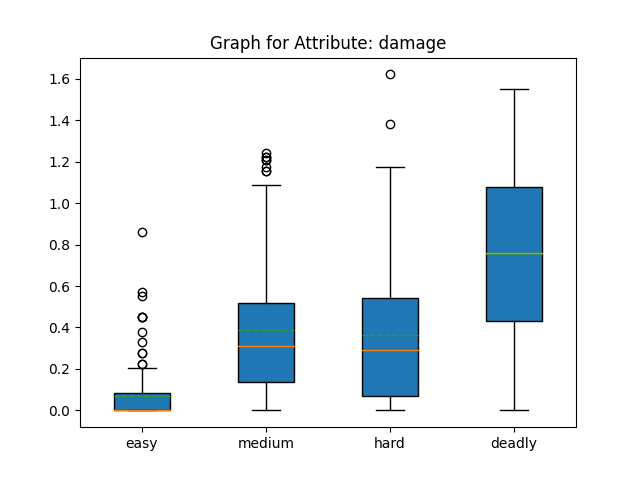
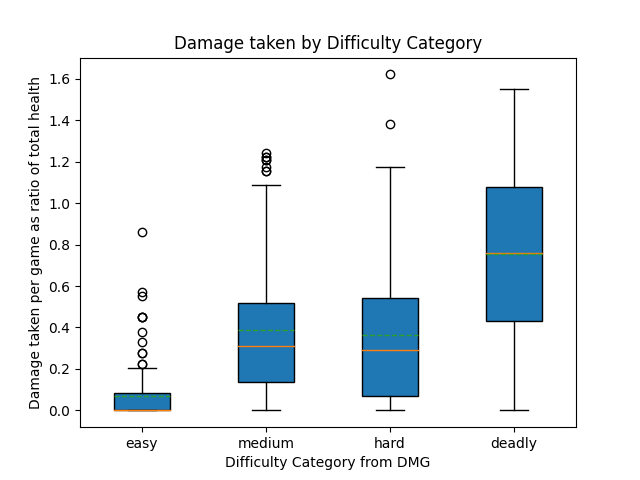
updated graphs

Changed region(s): [[0.25, 0.0625, 0.75, 0.125], [0.0312, 0.1562, 0.0625, 0.8438], [0.3438, 0.9375, 0.6875, 1.0]]

diff --git a/AnalyizeExperiements.py b/AnalyizeExperiements.py
@@ -55,7 +55,7 @@ def condense_results(game_data):
     
     return cond_vals 
 
-def creat_box_plt(data_dict, attribute):
+def creat_box_plt(data_dict, attribute, y_label = "y axis", title = "Graph"):
  
     easy = data_dict["Easy"][attribute]
     medium = data_dict["Medium"][attribute]
@@ -63,10 +63,12 @@ def creat_box_plt(data_dict, attribute):
     deadly= data_dict["Deadly"][attribute]
     
     box_plot_data=[easy, medium, hard, deadly]
-    plt.title("Graph for Attribute: {}".format(attribute))
+    plt.title(title)
+    plt.xlabel("Difficulty Category from DMG")
+    plt.ylabel(y_label)
     plt.boxplot(box_plot_data, patch_artist=True, meanline=True, showmeans=True, labels=["easy", "medium", "hard", "deadly"])
     plt.savefig("PlayTestingGraphs/" + attribute +".png")
-    plt.clf() 
+    plt.show()
 
 def get_statistics(data):
     stats = {"Easy":{}, "Medium":{}, "Hard": {}, "Deadly":{}}
@@ -92,9 +94,16 @@ print("Length dead: {}".format(len(vals["Deadly"])))
 
 cond = condense_results(vals)
 
-
+titles = {"damage": "Damage taken by Difficulty Category", "time":"How Long Games Took by Difficulty Category", 
+                "asleep": "Number of Unconcious Players by Difficulty Category", "spells": "Spell Resources Used by Difficulty Category",
+                "success": "How Often Players Won by Difficulty Category", "health": "Health at End of Game by Difficulty Category",
+                "death": "Player Death by Difficulty Category"}
+y_labels = {"damage": "Damage taken per game as ratio of total health", "time":"Time in seconds per game", 
+                "asleep": "number of times a player went unconcioius in a game", "spells": "Ratio of spell slots used per game",
+                "success": "1 if players defeated monsters, 0 otherwise", "health": "Health at end of game as ratio of max health",
+                "death": "Total amount of player death per game"}
 for att in ["damage", "time", "asleep", "spells", "death", "success", "health"]:
-    creat_box_plt(cond, att)
+    creat_box_plt(cond, att, y_labels[att], titles[att])
 
 
 stats = get_statistics(cond)
